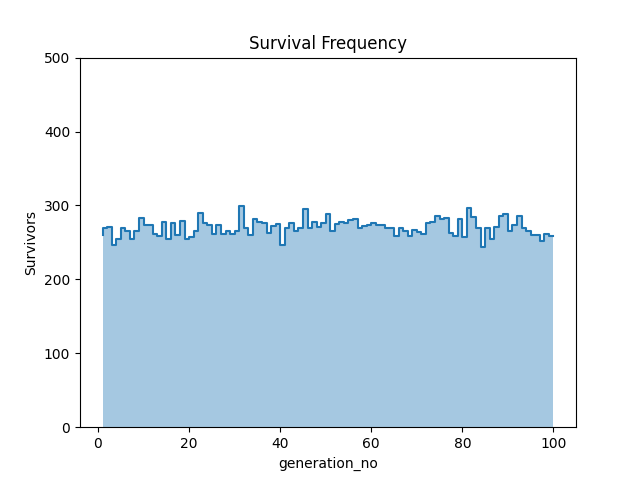
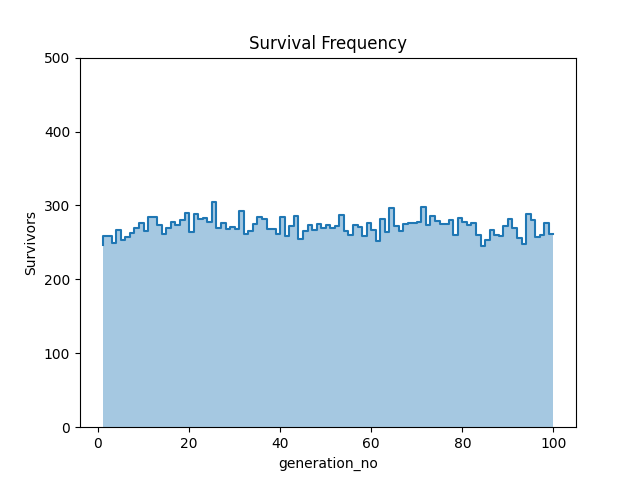
mutation

Changed region(s): [[0.1562, 0.4062, 0.875, 0.5312]]

diff --git a/individual.py b/individual.py
@@ -120,7 +120,7 @@ def make_children_function(individual_1, individual_2):
 	gene_sequence_1 = np.array([int(i) for i in "".join(individual_1["bin_genes"])])
 	gene_sequence_2 = np.array([int(i) for i in "".join(individual_2["bin_genes"])])
 	gene_sequence = np.where(np.random.randn(len(gene_sequence_1))>0.5, gene_sequence_1, gene_sequence_2)
-	gene_sequence = np.where(np.random.randn(len(gene_sequence_1))>0.0005, gene_sequence, 1-gene_sequence)
+	#gene_sequence = np.where(np.random.randn(len(gene_sequence))>0.0005, gene_sequence, 1-gene_sequence)
 	gene_sequence = "".join([str(i) for i in gene_sequence])
 	gene_sequence = [gene_sequence[i:i+22] for i in range(0, len(gene_sequence), 22)]
 	return gene_sequence
